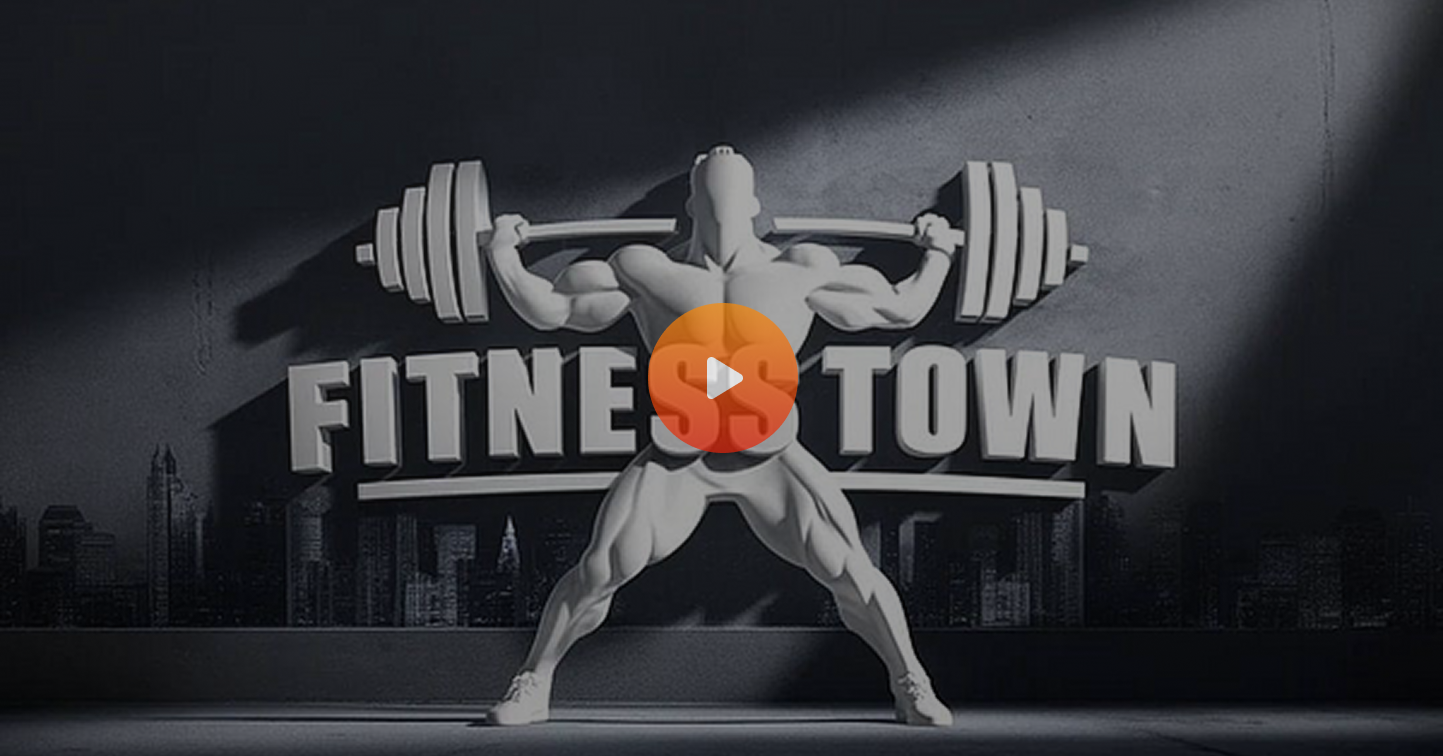
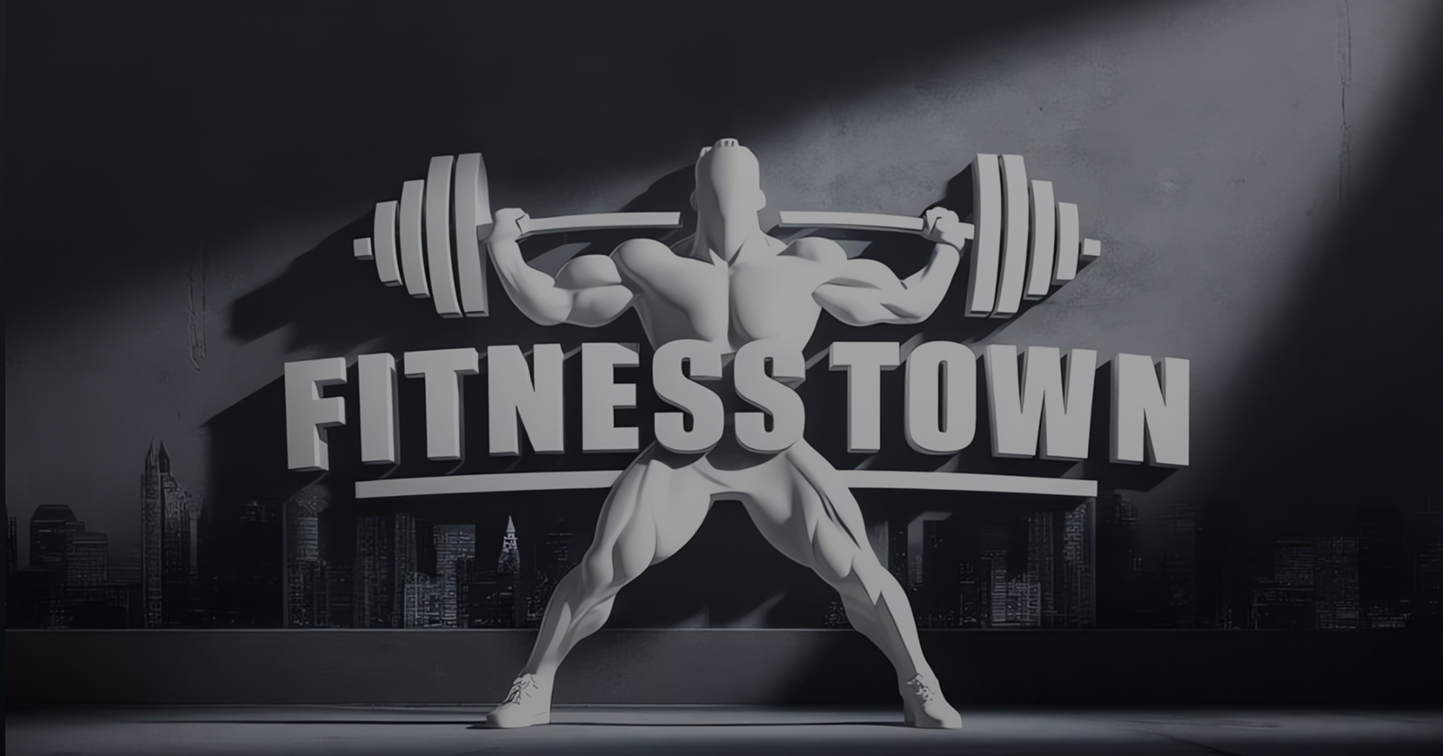
,mnm,n

diff --git a/css/style.css b/css/style.css
@@ -375,7 +375,7 @@ padding-top: 30px;
 .img-container figcaption {
    display: block;
    position: absolute;
-   bottom: -40px;
+   bottom: -41px;
    /* top: -40px; */
    height: 40px;
    width: 100%;
@@ -667,12 +667,16 @@ padding-top: 30px;
    background: #F2F2F2;
    padding: 5px 0x;
 }
+.secrcol2 , .secrcol{
+   padding-left: 0;
+}
 .secbggtop p{
    font-family: 'Space Grotesk';
    font-size: 13px;
    font-weight: 500;
    text-transform: uppercase;
    text-align: center;
+   padding: 5px 0px;
 }
 .secworktext{
    font-family: 'Michroma' !important;

diff --git a/css/responsive.css b/css/responsive.css
@@ -6,12 +6,24 @@
     width: 1903px;
     margin: auto;
   }
-
+  .sechertext {
+    margin-right: -122px;
+    padding-left: 0px;
+  }
+  .sechertext h1 {
+    font-size: 78px;
+  }
 
   /* .secwhitpad{
   width: 1480px !important;
   margin: auto;
 } */
+ .secgymtm{
+  max-width: 110% !important;
+ }
+ .headermenusec , .headermenusec2btn {
+  font-size: 20px;
+ }
 }
 
 
@@ -324,6 +336,9 @@ p.secdiet img {
   .sec-logo-img {
     width: 50%;
   }
+  .secfootermenu li {
+    padding-bottom: 20px;
+}
   .secrrww {
     display: flex;
     flex-direction: row;

diff --git a/index.html b/index.html
@@ -72,7 +72,7 @@
                     </div>
                 </div>
                 <div class="col-md-6">
-                    <img class="img-fluid" src="images/gym-boy.png" alt="">
+                    <img class="img-fluid secgymtm" src="images/gym-boy.png" alt="">
                 </div>
             </div>
         </div>
